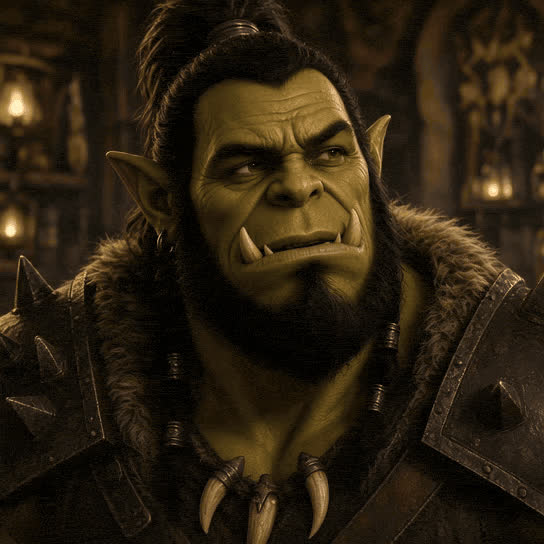
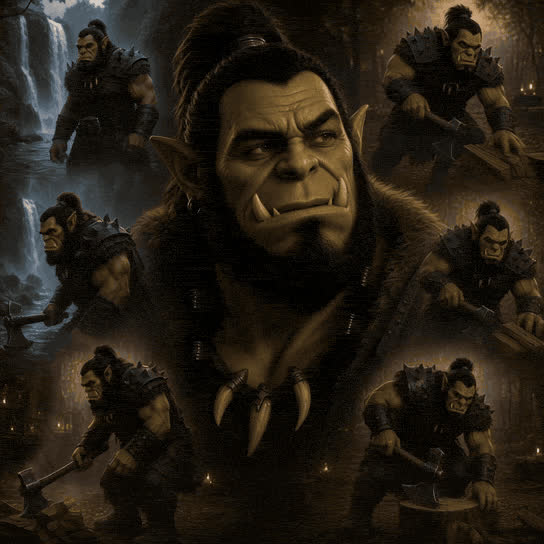
Reshoot Flashback with ghostly memory overlays.

diff --git a/scripts/imagine-video.ts b/scripts/imagine-video.ts
@@ -40,7 +40,7 @@ const PROMPTS: Record<string, string> = {
     "The orc raises one eyebrow, tilts his head, and side-eyes the camera with a skeptical look. Subtle breathing. Locked camera, no zoom.",
   ew: "The orc recoils slightly, wrinkles his nose in disgust, and gives a small shake of the head. Locked camera.",
   flashback:
-    "The orc stares into the distance as a memory hits, a slow nostalgic blink, a faint wistful almost-smile. Locked camera.",
+    "Keep the full framed portrait. Do not zoom or crop. The orc stares into the distance and blinks slowly. The translucent ghost figures around him stay visible the whole time, softly shifting: walking near a waterfall, picking up an axe, chopping wood. Locked camera, no zoom, no pan.",
   gold: "The orc sits on the treasure and grins richer as coins shift and glint. A small satisfied chuckle in the shoulders. Locked camera.",
   happy:
     "The orc laughs happily, a warm chuckle shaking his shoulders, eyes crinkling, grin holding. Locked camera.",
